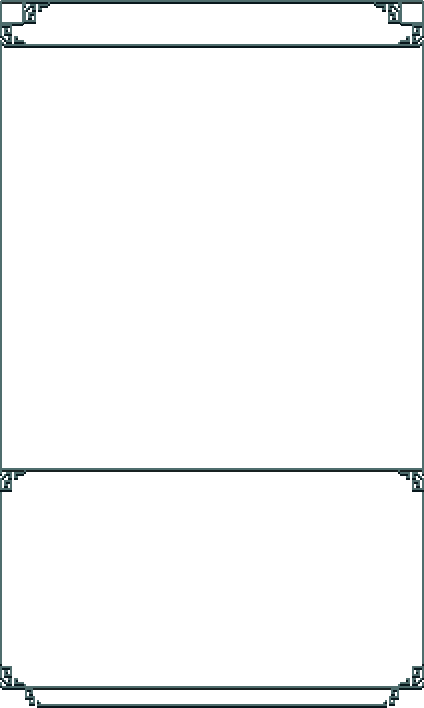
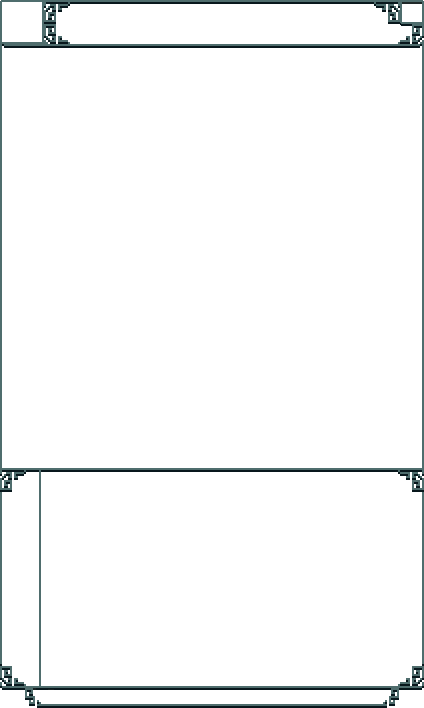
reenabled inventory slots

Changed region(s): [[0.092, 0.6836, 0.1226, 0.9633], [0.0, 0.0, 0.1533, 0.0621]]

diff --git a/voxygen/src/hud/bag.rs b/voxygen/src/hud/bag.rs
@@ -3,11 +3,15 @@ use super::{
     item_imgs::{ItemImgs, ItemKey},
     Event as HudEvent, TEXT_COLOR,
 };
-use crate::ui::{fonts::ConrodVoxygenFonts, ImageFrame, Tooltip, TooltipManager, Tooltipable};
+use crate::{
+    i18n::VoxygenLocalization,
+    ui::{fonts::ConrodVoxygenFonts, ImageFrame, Tooltip, TooltipManager, Tooltipable},
+};
 use client::Client;
+use common::comp::Stats;
 use conrod_core::{
     color, image,
-    widget::{self, Button, Image, Rectangle},
+    widget::{self, Button, Image, Rectangle, Text},
     widget_ids, Color, Colorable, Positionable, Sizeable, Widget, WidgetCommon,
 };
 
@@ -28,6 +32,8 @@ widget_ids! {
         tooltip[],
         bg,
         bg_frame,
+        char_art,
+        inventory_title,
     }
 }
 
@@ -43,6 +49,8 @@ pub struct Bag<'a> {
     rot_imgs: &'a ImgsRot,
     tooltip_manager: &'a mut TooltipManager,
     pulse: f32,
+    localized_strings: &'a std::sync::Arc<VoxygenLocalization>,
+    stats: &'a Stats,
 }
 
 impl<'a> Bag<'a> {
@@ -54,6 +62,8 @@ impl<'a> Bag<'a> {
         rot_imgs: &'a ImgsRot,
         tooltip_manager: &'a mut TooltipManager,
         pulse: f32,
+        localized_strings: &'a std::sync::Arc<VoxygenLocalization>,
+        stats: &'a Stats,
     ) -> Self {
         Self {
             client,
@@ -64,6 +74,8 @@ impl<'a> Bag<'a> {
             rot_imgs,
             tooltip_manager,
             pulse,
+            localized_strings,
+            stats,
         }
     }
 }
@@ -106,7 +118,9 @@ impl<'a> Widget for Bag<'a> {
             Some(inv) => inv,
             None => return None,
         };
-
+        let exp_percentage = (self.stats.exp.current() as f64) / (self.stats.exp.maximum() as f64);
+        let exp_treshold = format!("{}/{}", self.stats.exp.current(), self.stats.exp.maximum());
+        let level = (self.stats.level.level()).to_string();
         // Tooltips
         let item_tooltip = Tooltip::new({
             // Edge images [t, b, r, l]
@@ -128,7 +142,6 @@ impl<'a> Widget for Bag<'a> {
         .desc_text_color(TEXT_COLOR);
 
         // BG
-
         Image::new(self.imgs.inv_bg)
             .w_h(424.0, 708.0)
             .bottom_right_with_margins_on(ui.window, 60.0, 5.0)
@@ -138,6 +151,17 @@ impl<'a> Widget for Bag<'a> {
             .w_h(424.0, 708.0)
             .middle_of(state.ids.bg)
             .set(state.ids.bg_frame, ui);
+        // Title
+        Text::new(&format!(
+            "{}{}",
+            &self.stats.name,
+            &self.localized_strings.get("hud.bag.inventory")
+        ))
+        .mid_top_with_margin_on(state.ids.bg_frame, 9.0)
+        .font_id(self.fonts.cyri.conrod_id)
+        .font_size(self.fonts.cyri.scale(24))
+        .color(TEXT_COLOR)
+        .set(state.ids.inventory_title, ui);
 
         // Close button
         if Button::image(self.imgs.close_btn)
@@ -151,6 +175,17 @@ impl<'a> Widget for Bag<'a> {
             event = Some(Event::Close);
         }
 
+        // Char Pixel Art
+        Image::new(self.imgs.char_art)
+            .w_h(40.0, 37.0)
+            .top_left_with_margins_on(state.ids.bg, 4.0, 2.0)
+            .set(state.ids.char_art, ui);
+
+        // Alignment for Grid
+        Rectangle::fill_with([360.0, 200.0], color::TRANSPARENT)
+            .bottom_left_with_margins_on(state.ids.bg_frame, 29.0, 44.0)
+            .scroll_kids_vertically()
+            .set(state.ids.inv_alignment, ui);
         /*
         // Bag parts
         Image::new(self.imgs.bag_bot)
@@ -165,13 +200,7 @@ impl<'a> Widget for Bag<'a> {
         Image::new(self.imgs.bag_top)
             .w_h(58.0 * BAG_SCALE, 9.0 * BAG_SCALE)
             .up_from(state.ids.bag_mid, 0.0)
-            .set(state.ids.bag_top, ui);
-
-        // Alignment for Grid
-        Rectangle::fill_with([56.0 * BAG_SCALE, mid_height], color::TRANSPARENT)
-            .top_left_with_margins_on(state.ids.bag_mid, 0.0, 3.0 * BAG_SCALE)
-            .scroll_kids_vertically()
-            .set(state.ids.inv_alignment, ui);
+            .set(state.ids.bag_top, ui);*/
 
         // Create available inventory slot widgets
         if state.ids.inv_slots.len() < inventory.len() {
@@ -197,8 +226,8 @@ impl<'a> Widget for Bag<'a> {
 
         // Display inventory contents
         for (i, item) in inventory.slots().iter().enumerate() {
-            let x = i % 5;
-            let y = i / 5;
+            let x = i % 9;
+            let y = i / 9;
 
             let is_selected = Some(i) == state.selected_slot;
 
@@ -211,15 +240,15 @@ impl<'a> Widget for Bag<'a> {
             })
             .top_left_with_margins_on(
                 state.ids.inv_alignment,
-                0.0 + y as f64 * (40.0 + 2.0),
-                0.0 + x as f64 * (40.0 + 2.0),
+                0.0 + y as f64 * (40.0),
+                0.0 + x as f64 * (40.0),
             )
             .wh(if is_selected { [40.0; 2] } else { [40.0; 2] })
-            .image_color(if is_selected {
+            /*.image_color(if is_selected {
                 color::WHITE
             } else {
                 color::DARK_YELLOW
-            });
+            })*/;
 
             let slot_widget_clicked = if let Some(item) = item {
                 slot_widget
@@ -288,8 +317,6 @@ impl<'a> Widget for Bag<'a> {
                 state.update(|s| s.selected_slot = None);
             }
         }
-
-        */
 
         event
     }

diff --git a/voxygen/src/hud/buttons.rs b/voxygen/src/hud/buttons.rs
@@ -11,8 +11,6 @@ widget_ids! {
         bag,
         bag_text,
         bag_show_map,
-        character_button,
-        character_button_bg,
         map_button,
         qlog_button,
         qlog_button_bg,
@@ -169,15 +167,6 @@ impl<'a> Widget for Buttons<'a> {
             .w_h(28.0, 25.0)
             .left_from(state.ids.map_button, 10.0)
             .set(state.ids.spellbook_button_bg, ui);
-        Image::new(self.imgs.character_button)
-            .w_h(27.0, 25.0)
-            .left_from(state.ids.spellbook_button_bg, 10.0)
-            .set(state.ids.character_button_bg, ui);
-        Image::new(self.imgs.qlog_button)
-            .w_h(23.0, 25.0)
-            .left_from(state.ids.character_button_bg, 10.0)
-            .set(state.ids.qlog_button_bg, ui);
-
         // Other Windows can only be accessed when `Settings` is closed.
         // Opening `Settings` will close all other Windows, including the `Bag`.
         // Opening the `Map` won't close the previously displayed windows.
@@ -216,42 +205,6 @@ impl<'a> Widget for Buttons<'a> {
                 .was_clicked()
             {
                 return Some(Event::ToggleSpell);
-            }
-
-            // 4 Char-Window
-            if Button::image(self.imgs.character_button)
-                .w_h(27.0, 25.0)
-                .left_from(state.ids.spellbook_button, 10.0)
-                .hover_image(self.imgs.character_hover)
-                .press_image(self.imgs.character_press)
-                .label("C")
-                .label_font_id(self.fonts.cyri.conrod_id)
-                .label_font_size(10)
-                .label_color(TEXT_COLOR)
-                .label_y(conrod_core::position::Relative::Scalar(-7.0))
-                .label_x(conrod_core::position::Relative::Scalar(10.0))
-                .set(state.ids.character_button, ui)
-                .was_clicked()
-            {
-                return Some(Event::ToggleCharacter);
-            }
-
-            // 5 Quest-Log
-            if Button::image(self.imgs.qlog_button)
-                .w_h(23.0, 25.0)
-                .left_from(state.ids.character_button, 10.0)
-                .hover_image(self.imgs.qlog_hover)
-                .press_image(self.imgs.qlog_press)
-                .label("L")
-                .label_font_id(self.fonts.cyri.conrod_id)
-                .label_font_size(10)
-                .label_color(TEXT_COLOR)
-                .label_y(conrod_core::position::Relative::Scalar(-7.0))
-                .label_x(conrod_core::position::Relative::Scalar(10.0))
-                .set(state.ids.qlog_button, ui)
-                .was_clicked()
-            {
-                return Some(Event::ToggleQuest);
             }
         }
 

diff --git a/voxygen/src/hud/img_ids.rs b/voxygen/src/hud/img_ids.rs
@@ -22,16 +22,6 @@ image_ids! {
     pub struct Imgs {
         <VoxelGraphic>
 
-        // Bag
-        bag_contents: "voxygen.element.frames.bag",
-        inv_grid: "voxygen.element.frames.inv_grid",
-        inv_slot: "voxygen.element.buttons.inv_slot",
-        inv_slot_sel: "voxygen.element.buttons.inv_slot_sel",
-        grid_inv: "voxygen.element.buttons.grid_inv",
-        bag_top: "voxygen.element.bag.top",
-        bag_mid: "voxygen.element.bag.mid",
-        bag_bot: "voxygen.element.bag.bot",
-
         // Skillbar
         xp_bar_mid: "voxygen.element.skillbar.xp_bar_mid",
         xp_bar_left: "voxygen.element.skillbar.xp_bar_left",
@@ -142,7 +132,6 @@ image_ids! {
         indicator_mmap_3: "voxygen.element.buttons.indicator_mmap_3",
 
         // Crosshair
-
         crosshair_outer_round: "voxygen.element.misc_bg.crosshair_outer_1",
         crosshair_outer_round_edges: "voxygen.element.misc_bg.crosshair_outer_2",
         crosshair_outer_edges: "voxygen.element.misc_bg.crosshair_outer_3",
@@ -153,7 +142,6 @@ image_ids! {
         crosshair_bg_pressed: "voxygen.element.misc_bg.crosshair_bg_pressed",
 
         // Checkboxes and Radio buttons
-
         check: "voxygen.element.buttons.radio.inactive",
         check_mo: "voxygen.element.buttons.radio.inactive_hover",
         check_press: "voxygen.element.buttons.radio.press",
@@ -257,6 +245,9 @@ image_ids! {
         // Inventory
         inv_bg: "voxygen.element.misc_bg.inv_bg",
         inv_frame: "voxygen.element.misc_bg.inv_frame",
+        char_art: "voxygen.element.icons.character",
+        inv_slot: "voxygen.element.buttons.inv_slot",
+        inv_slot_sel: "voxygen.element.buttons.inv_slot_sel",
 
 
         not_found:"voxygen.element.not_found",

diff --git a/voxygen/src/hud/mod.rs b/voxygen/src/hud/mod.rs
@@ -1636,6 +1636,9 @@ impl Hud {
 
         // Bag contents
         if self.show.bag {
+            let ecs = client.state().ecs();
+            let stats = ecs.read_storage::<comp::Stats>();
+            let player_stats = stats.get(client.entity()).unwrap();
             match Bag::new(
                 client,
                 &self.imgs,
@@ -1644,6 +1647,8 @@ impl Hud {
                 &self.rot_imgs,
                 tooltip_manager,
                 self.pulse,
+                &self.voxygen_i18n,
+                &player_stats,
             )
             .set(self.ids.bag, ui_widgets)
             {

diff --git a/voxygen/src/hud/minimap.rs b/voxygen/src/hud/minimap.rs
@@ -213,7 +213,7 @@ impl<'a> Widget for MiniMap<'a> {
         } else {
             Image::new(self.imgs.mmap_frame_closed)
                 .w_h(174.0 * SCALE, 18.0 * SCALE)
-                .top_right_with_margins_on(ui.window, 0.0, 0.0)
+                .top_right_with_margins_on(ui.window, 0.0, 5.0)
                 .set(state.ids.mmap_frame, ui);
         }
 

diff --git a/voxygen/src/hud/character_window.rs b/voxygen/src/hud/character_window.rs
@@ -98,10 +98,6 @@ impl<'a> CharacterWindow<'a> {
     }
 }
 
-/*pub struct State {
-    ids: Ids,
-}*/
-
 pub enum Event {
     Close,
 }
